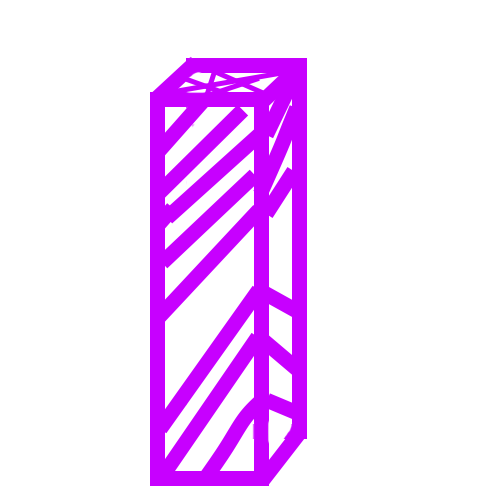
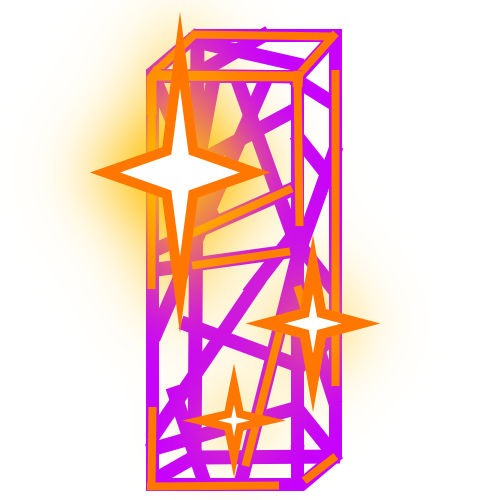
change some pillar sprites

diff --git a/src/scenes/Tutorial.ts b/src/scenes/Tutorial.ts
@@ -36,13 +36,41 @@ export class Tutorial extends Scene {
 
 
         this.buildPage("Killers on the loose!", "These are your enemies called \"Killers\". They are after you and your \"City\"! Your objective is to stop them from reaching the end of the path.", "tutorial1");
-        this.buildPage("Pillars - Your Defense",
+        this.buildPage("Pillars - Your Defense 1/2",
             [
                 "To stop them, you must build \"Pillars\" that attack killers. They cost money, depending on their strength",
                 "Each pillar has its own purpose, where each may be used to beat all the killers. Some pillars have special attacks. For example, the Ice Pillar is capable of slowing killers down. Another pillar, called the Sniper Pillar which is orange in colour, is truly capable of shooting from a large distance!",
+                "Pillars can also be upgraded or sold. Upgrading them may improve their damage, range, attack speed, or even their special properties such as slow. Selling pillars return 60% of its total cost, including all bought upgrades."
             ],
             "tutorial2");
-        this.buildPage("Pillars - Your Defense (part 2)", "You start with a few pillars to begin with. However as the waves go by, you will need to rely on stronger ones.", "tutorial3", 1.5)
+        this.buildPage("Pillars - Your Defense 2/2",
+            [
+                "You start with a few pillars to begin with. However as the waves go by, you will need to rely on stronger ones.",
+                "Due to their strength, they need to be researched, which costs money. Eventually, you will need to research pillars to advance your defence.",
+                "The Basic Pillar is cheap but weak. As mentioned before, the Sniper Pillar has a huge range, while dealing great damage. The Lightning Pillar, which is among the most advanced pillars, is very powerful (and VERY expensive!)"
+            ],
+            "tutorial3", 0.8);
+        this.buildPage("The Killers 1/2",
+            [
+                "Killers come in waves. You can tell when a new wave starts by looking at the \"Timeline\" on the left.",
+                "In this game, you will encounter a wide range of killers, varying in strength.",
+                "Some move fast, others move slowly. Some enemies can even have armour, which can resist up to a certain amount of damage. Killing armoured killers requires pillars that can deal high damage at once.",
+                "If a killer reaches the end of the path, you will lose lives depending on their damage. Losing all lives will cause defeat."
+            ],
+            "tutorial4", 1.2);
+        this.buildPage("The Killers 2/2",
+            [
+                "As your defence advances, so do the killers too!",
+                "You will encounter stronger killers the further you go in the later waves. The killers you meet later on will have more health, more damage (in other words, the number of lives you will lose upon reaching the end) and the most frightening, their armour/damage resistance.",
+                "Remember to upgrade your pillars, and research if you can!"
+            ],
+            "tutorial5", 1.2);
+        this.buildPage("Checkpoints",
+            [
+                "Every 20th wave, you will reach a checkpoint upon beating it. Checkpoints allow you to reload your progress from the end of the last wave",
+                "It happens automatically, and it will be saved on the slot you chose when you start/load."
+            ],
+            "tutorial5", 1.2);
         this.updatePageVisibility()
 
 
@@ -84,8 +112,8 @@ export class Tutorial extends Scene {
 
         const pageLeftPane = new PIXI.Container();
         page.addChild(pageLeftPane);
-        const paneWidth = 800;
-        const paneHeight = 700;
+        const paneWidth = 700;
+        const paneHeight = 800;
         pageLeftPane.x = 0;
         pageLeftPane.y = 150;
 
@@ -116,7 +144,7 @@ export class Tutorial extends Scene {
         page.addChild(pageRightPane);
         const paneWidthRight = 800;
         const paneHeightRight = 700;
-        pageRightPane.x = 800;
+        pageRightPane.x = 700;
         pageRightPane.y = 150;
 
         const bgColourRight = new PIXI.Graphics();

diff --git a/src/core/AssetLoader.ts b/src/core/AssetLoader.ts
@@ -112,6 +112,7 @@ export class AssetLoader {
 
 
             "ultimatePillar" : "assets/images/ultimate_pillar.png",
+            "ultimatePillarLv2" : "assets/images/ultimate_pillar_lv2.png",
             "ultimatePillarTop" : "assets/images/ultimate_pillar_top.png",
             "ultimatePillarTopLv1" : "assets/images/ultimate_pillar_top_lv1.png",
             "ultimatePillarTopLv2" : "assets/images/ultimate_pillar_top_lv2.png"
@@ -123,17 +124,15 @@ export class AssetLoader {
             "gameoverGraveyard" : "assets/images/gameover_rip.png",
             "tutorial1" : "assets/images/tutorial_1.png",
             "tutorial2" : "assets/images/tutorial_2.png",
-            "tutorial3" : "assets/images/tutorial_3.png"
+            "tutorial3" : "assets/images/tutorial_3.png",
+            "tutorial4" : "assets/images/tutorial_4.png",
+            "tutorial5" : "assets/images/tutorial_5.png"
         })
 
         Assets.addBundle("mapBackgroundImages", {
             "starryNight" : "assets/mapbg/starrynight_pvk.png",
             "mediumFrenchVanilla" : "assets/mapbg/Medium_French_Vanilla_pvk.jpg"
         })
-
-        // Assets.addBundle("sfx", {
-        //     "towerBuy" : "assets/sounds/sfx/tower_buy.mp3"
-        // })
     }
 
     async loadEnemySprites() {

diff --git a/src/UI/HUD.ts b/src/UI/HUD.ts
@@ -211,7 +211,7 @@ export class HUD {
         towerSelectMenu.addChild(lightningPillarButton)
         const dreadglassPillarButton = UIHelper.createIcon(towerSpriteBundle.dreadglassPillar, 170, 170, 0x220000)
         towerSelectMenu.addChild(dreadglassPillarButton)
-        const ultimatePillarButton = UIHelper.createIcon(towerSpriteBundle.ultimatePillar, 0, 255, 0x110011)
+        const ultimatePillarButton = UIHelper.createIcon(towerSpriteBundle.ultimatePillar, 170, 255, 0x110011)
         towerSelectMenu.addChild(ultimatePillarButton)
 
         this.towerSelectionButtons.basic = basicPillarButton

diff --git a/src/core/GameState.ts b/src/core/GameState.ts
@@ -5,7 +5,7 @@ import { productionWaves } from "../utils/WaveData"
 import { calculateWaveValue } from "../utils/Calc"
 
 const eventDispatcher = new EventDispatcher()
-const developerTest = false
+const developerTest = true
 const developerOffSet = 0
 
 
@@ -13,7 +13,7 @@ export class GameState {
     lives: number = 100
     money: number = 400
     uiManager?: UIManager
-    startWave: number = 0
+    startWave: number = 99
     mapName: string = "Walk in the Park"
     saveFileIndex: 1 | 2 | 3 | 4 | 5 | 6 = 1
     researchLevel: 1 | 2 | 3 | 4 = 1

diff --git a/src/utils/TowerStatsData.ts b/src/utils/TowerStatsData.ts
@@ -677,7 +677,7 @@ function getTowerData<S extends TowerStats, I extends TowerInfo>(towerType: stri
                     }
                 ],
                 visualUpgrades: [{
-                    assetIcon: towerIcons.ultimatePillar,
+                    assetIcon: towerIcons.ultimatePillarLv2,
                     asset: towerIcons.ultimatePillarTopLv2,
                     tileColour: 0x6600FF,
                     beamColour: 0X00FFFF,

diff --git a/src/objects/pillars/UltimatePillar.ts b/src/objects/pillars/UltimatePillar.ts
@@ -127,6 +127,10 @@ export class UltimatePillar extends Tower {
             this.sprite.x = this.position?.x || 0
             this.sprite.y = this.position?.y || 0
         }
+
+        if (newVisualStats.assetIcon) {
+            this.assetIcon = newVisualStats.assetIcon
+        }
     }
 
 }
